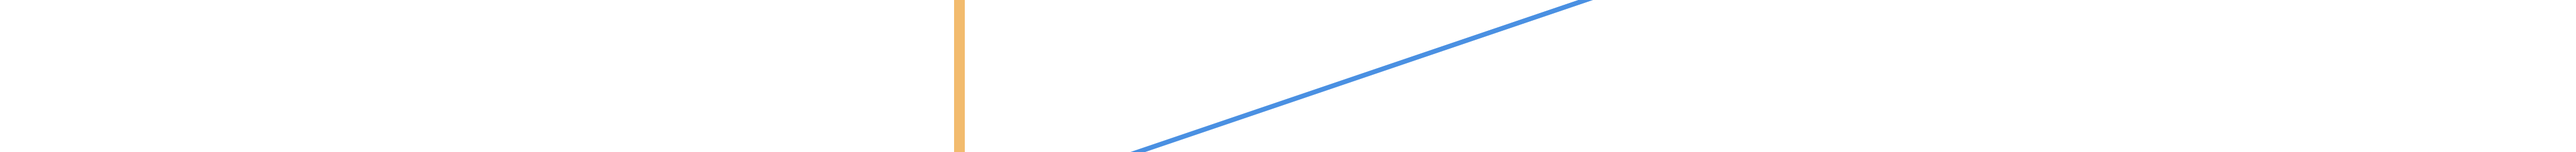
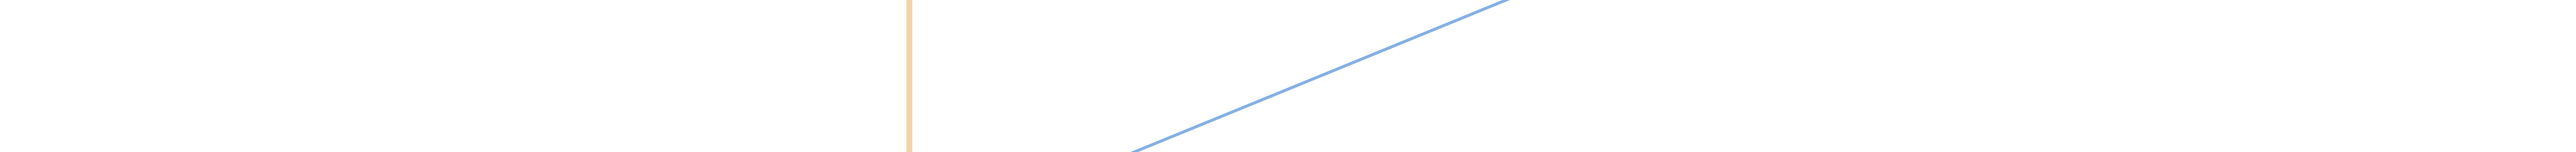
totally done

Changed region(s): [[0.4375, 0.0, 0.625, 1.0], [0.3438, 0.0, 0.375, 1.0]]

diff --git a/index.html b/index.html
@@ -60,18 +60,45 @@
 
       <div class="container-fluid lines">
         <div class="row">
-          <div class="col-md-12">
-             <div class="item" id="i1"></div>
-             <div class="item" id="i2"></div>
-             <div class="item" id="i3"></div>
-             <div class="item" id="i4"></div>
-             <div class="item" id="i5"></div>
-             <div class="item" id="i6"></div>
-             <div class="item" id="i7"></div>
-             <div class="item" id="i8"></div>
-             <div class="item" id="i9"></div>
-             <div class="item" id="i10"></div>
-             <div class="item" id="i11"></div>
+          <div class="col-lg-12 visible-lg">
+             <div class="item" id="l1"></div>
+             <div class="item" id="l2"></div>
+             <div class="item" id="l3"></div>
+             <div class="item" id="l4"></div>
+             <div class="item" id="l5"></div>
+             <div class="item" id="l6"></div>
+             <div class="item" id="l7"></div>
+             <div class="item" id="l8"></div>
+             <div class="item" id="l9"></div>
+             <div class="item" id="l10"></div>
+             <div class="item" id="l11"></div>
+          </div>
+          <div class="col-md-12 col-sm-12 visible-md visible-sm">
+             <div class="item" id="m1"></div>
+             <div class="item" id="m2"></div>
+             <div class="item" id="m3"></div>
+             <div class="item" id="m4"></div>
+             <div class="item" id="m5"></div>
+             <div class="item" id="m6"></div>
+             <div class="item" id="m7"></div>
+             <div class="item" id="m8"></div>
+             <div class="item" id="m9"></div>
+             <div class="item" id="m10"></div>
+             <div class="item" id="m11"></div>
+          </div>
+          
+          <div class="col-xs-12 visible-xs">
+             <div class="item" id="x1"></div>
+             <div class="item" id="x2"></div>
+             <div class="item" id="x3"></div>
+             <div class="item" id="x4"></div>
+             <div class="item" id="x5"></div>
+             <div class="item" id="x6"></div>
+             <div class="item" id="x7"></div>
+             <div class="item" id="x8"></div>
+             <div class="item" id="x9"></div>
+             <div class="item" id="x10"></div>
+             <div class="item" id="x11"></div>
           </div>
         </div>
       </div>
@@ -254,7 +281,7 @@
             <div class="map">
               <!-- S3t-->
               <div class="row">
-                <div class="col-lg-offset-8 col-lg-4 col-md-offset-7 col-md-5 col-sm-offset-6 col-sm-6  col-xs-offset-4 col-xs-8 bubble s3t" id="s3t">
+                <div class="col-lg-offset-8 col-lg-4 col-md-offset-7 col-md-5 col-sm-offset-7 col-sm-5  col-xs-offset-4 col-xs-8 bubble s3t" id="s3t">
                   <div class='head'>
                     <img src="images/Jason.jpg" class="img-responsive center-block speakHeadB">
                   </div>
@@ -301,7 +328,7 @@
             <div class="traffic">
               <!-- S4t-->
               <div class="row">
-                <div class="col-lg-offset-8 col-lg-4 col-md-offset-7 col-md-5 col-sm-offset-6 col-sm-6 col-xs-offset-4 col-xs-8 bubble s4t" id="s4t">
+                <div class="col-lg-offset-8 col-lg-4 col-md-offset-7 col-md-5 col-sm-offset-7 col-sm-5 col-xs-offset-4 col-xs-8 bubble s4t" id="s4t">
                   <div class='head'>
                     <img src="images/Jason.jpg" class="img-responsive center-block speakHeadB">
                   </div>

diff --git a/css/main.css b/css/main.css
@@ -128,23 +128,54 @@ a:visited {
   opacity: 0;
 }
  
- 
-  
-#i1
+#l1
 {background-image: url(../images/item1.png);
   height: 100vh;}
-#i2
+#l2
 {background-image: url(../images/item2.png);
 height: 25vh;}
-#i3,#i4,#i5
-{background-image: url(../images/item345.png);
+#l3,#l4,#l5,#l6
+{background-image: url(../images/item3456.png);
 height: 25vh;}
-#i6,#i7,#i8,#i9,#i10
-{background-image: url(../images/item678910.png);
+#l7,#l8,#l9,#l10
+{background-image: url(../images/item78910.png);
 height: 25vh;}
-#i11
+#l11
 {background-image: url(../images/item11.png);
 height: 25vh;}
+
+#m1
+{background-image: url(../images/item1.png);
+  height: 100vh;}
+#m2
+{background-image: url(../images/md2.png);
+height: 25vh;}
+#m3,#m4,#m5,#m6
+{background-image: url(../images/md3456.png);
+height: 25vh;}
+#m7,#m8,#m9,#m10
+{background-image: url(../images/md78910.png);
+height: 25vh;}
+#m11
+{background-image: url(../images/md11.png);
+height: 25vh;}
+
+#x1
+{background-image: url(../images/item1.png);
+  height: 100vh;}
+#x2
+{background-image: url(../images/xs2.png);
+height: 25vh;}
+#x3,#x4,#x5,#x6
+{background-image: url(../images/xs3456.png);
+height: 25vh;}
+#x7,#x8,#x9,#x10
+{background-image: url(../images/xs78910.png);
+height: 25vh;}
+#x11
+{background-image: url(../images/xs11.png);
+height: 25vh;}
+
 
 /*----------------------------------
   avatar
